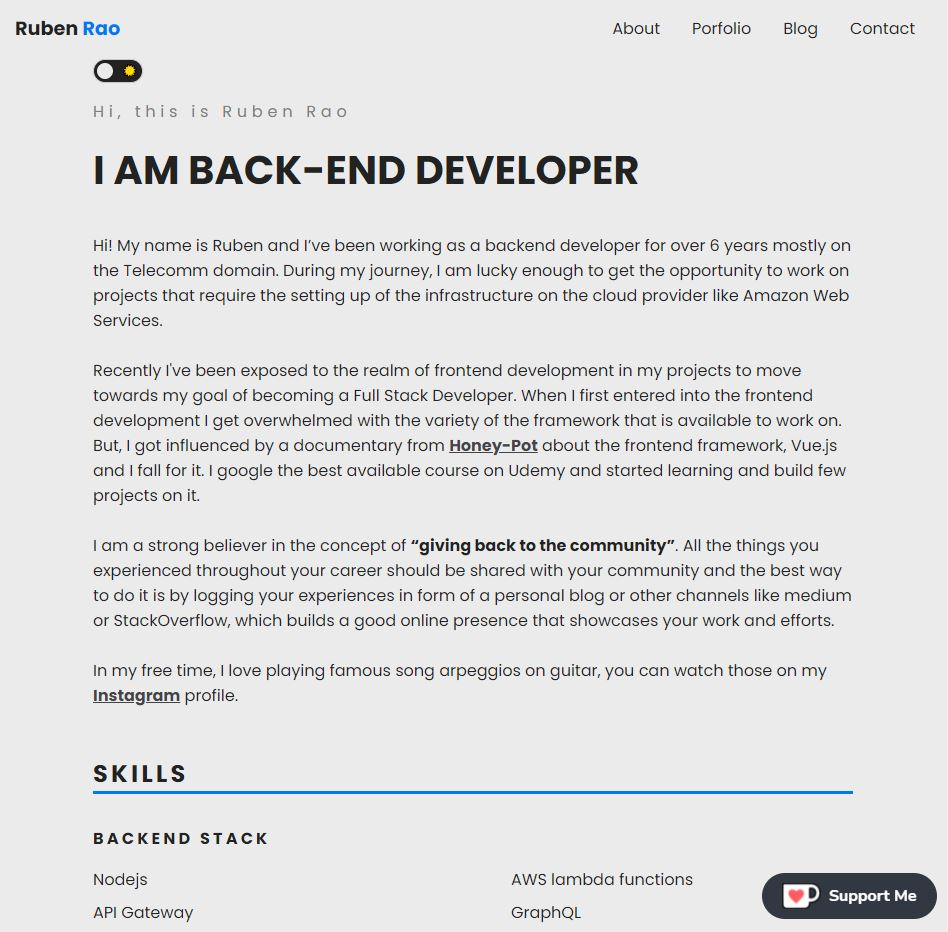
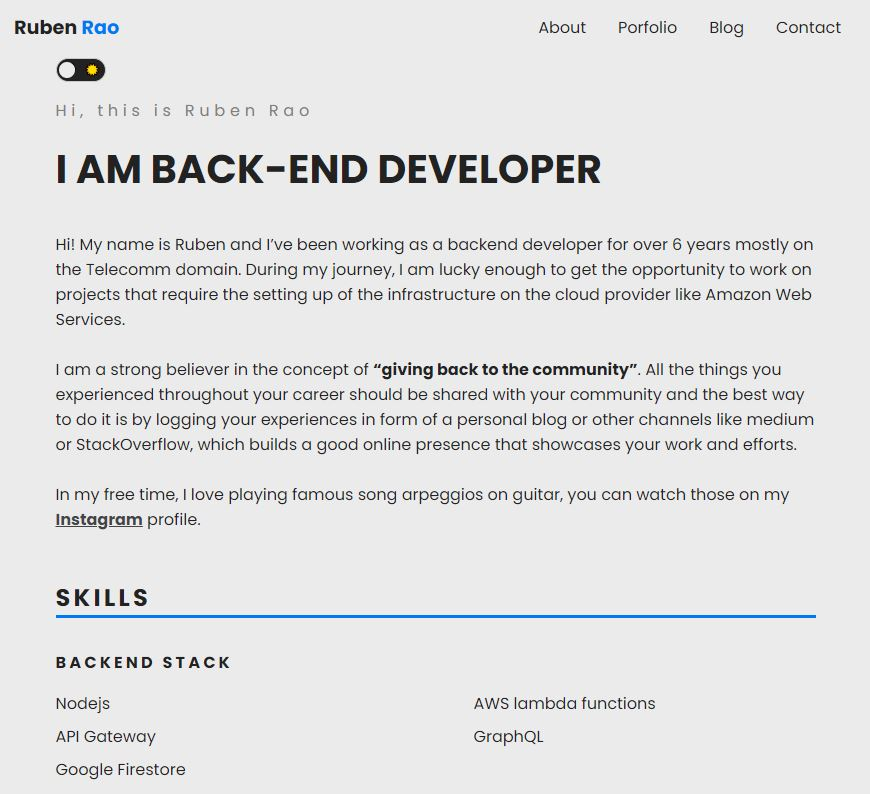
un-cooked ko-fi intergration to vue component Contact.vue

diff --git a/src/components/AboutMe.vue b/src/components/AboutMe.vue
@@ -11,17 +11,6 @@
         Services.
         <br />
         <br />
-        Recently I've been exposed to the realm of frontend development in my
-        projects to move towards my goal of becoming a Full Stack Developer.
-        When I first entered into the frontend development I get overwhelmed
-        with the variety of the framework that is available to work on. But, I
-        got influenced by a documentary from
-        <a href="https://www.youtube.com/watch?v=OrxmtDw4pVI/">Honey-Pot</a>
-        about the frontend framework, Vue.js and I fall for it. I google the
-        best available course on Udemy and started learning and build few
-        projects on it.
-        <br />
-        <br />
         I am a strong believer in the concept of
         <strong>“giving back to the community”</strong>. All the things you
         experienced throughout your career should be shared with your community

diff --git a/src/components/NavigationMenu.vue b/src/components/NavigationMenu.vue
@@ -8,6 +8,8 @@
         >
         <img
           @click="toggleMobileMenu()"
+          width="28px"
+          height="24px"
           class="mobile-menu svg-decorator"
           src="../assets/openNavigation.svg"
           alt="Open Navigation"
@@ -15,6 +17,8 @@
         <nav :class="mobileMenuBar ? 'menu-btn' : ''">
           <img
             @click="toggleMobileMenu()"
+            width="28px"
+            height="24px"
             class="mobile-menu-exit"
             src="../assets/closeNavigation.svg"
             alt="Close Navigation"

diff --git a/public/index.html b/public/index.html
@@ -55,8 +55,9 @@
     <div id="app"></div>
     <!-- built files will be auto injected -->
 
-    <!-- <script src="https://storage.ko-fi.com/cdn/scripts/overlay-widget.js"></script> -->
-    <!-- <script>
+    <!-- <script src="https://storage.ko-fi.com/cdn/scripts/overlay-widget.js"></script>
+
+    <script>
       kofiWidgetOverlay.draw('rubenrao79269', {
         type: 'floating-chat',
         'floating-chat.donateButton.text': 'Support Me',

diff --git a/src/pages/ContactPage.vue b/src/pages/ContactPage.vue
@@ -53,6 +53,17 @@ export default {
       isActive: false,
     };
   },
+  methods: {},
+  mounted() {
+    this.$LoadScript('https://storage.ko-fi.com/cdn/widget/Widget_2.js')
+      .then(() => {
+        window.kofiwidget2.init('', '#29abe0', 'D1D16QT90');
+        window.kofiwidget2.draw();
+      })
+      .catch((err) => {
+        console.log(err);
+      });
+  },
 };
 </script>
 <style lang="scss" scoped>

diff --git a/src/main.js b/src/main.js
@@ -1,9 +1,11 @@
 import { createApp } from 'vue';
 import App from './App.vue';
 import router from './router.js';
+import LoadScript from 'vue-plugin-load-script';
 
 const app = createApp(App);
 app.use(router);
 router.isReady().then(function() {
   app.mount('#app');
 });
+app.use(LoadScript);

diff --git a/src/App.vue b/src/App.vue
@@ -1,7 +1,8 @@
 <template>
   <navigation-menu> </navigation-menu>
-  <dark-mode></dark-mode>
+
   <main>
+    <dark-mode></dark-mode>
     <router-view v-slot="slotProps" mode="out-in">
       <transition name="route">
         <component :is="slotProps.Component"></component>
